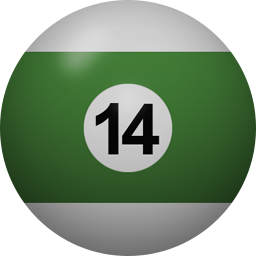
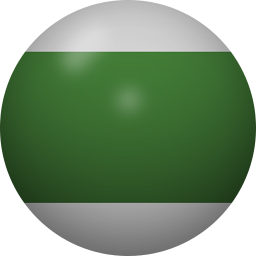
Update images and styling on PlayerDisplay

Changed region(s): [[0.3125, 0.3125, 0.6875, 0.6875]]

diff --git a/code/ui/PlayerDisplay.scss b/code/ui/PlayerDisplay.scss
@@ -13,10 +13,33 @@
         font-size: 24px;
         height: 60px;
         padding: 10px;
-        top: 40px;
+        top: 50px;
         transition: all 0.2s ease;
 
+        .score-container {
+            align-items: center;
+            background-color: rgba(#040507,0.7);
+            border-radius: 50%;
+            height: 40px;
+            justify-content: center;
+
+
+            .ball {
+                background-image: url(/ui/pool/ball-unset.png);
+                background-size: 100%;
+                border-radius: 50%;
+                width: 32px;
+                height: 32px;
+            }
+
+            .score {
+                color: #fff;
+                font-size: 20px;
+            }
+        }
+
         .ball {
+            box-shadow: 0 10px 20px rgba(#000,0.3);
 
             &.stripes {
                 background-image: url(/ui/pool/ball-stripes.png);
@@ -95,28 +118,6 @@
                 height: 32px;
             }
         }
-
-
-        .score-container {
-            align-items: center;
-            background-color: rgba(#040507,0.7);
-            border-radius: 50%;
-            height: 40px;
-            justify-content: center;
-
-
-            .ball {
-                box-shadow: 0 10px 20px rgba(#000,0.3);
-                width: 32px;
-                height: 32px;
-            }
-
-            .score {
-                color: #fff;
-                font-size: 20px;
-            }
-        }
-
 
         &.active {
             background-color: rgba(#1A202B,1);
